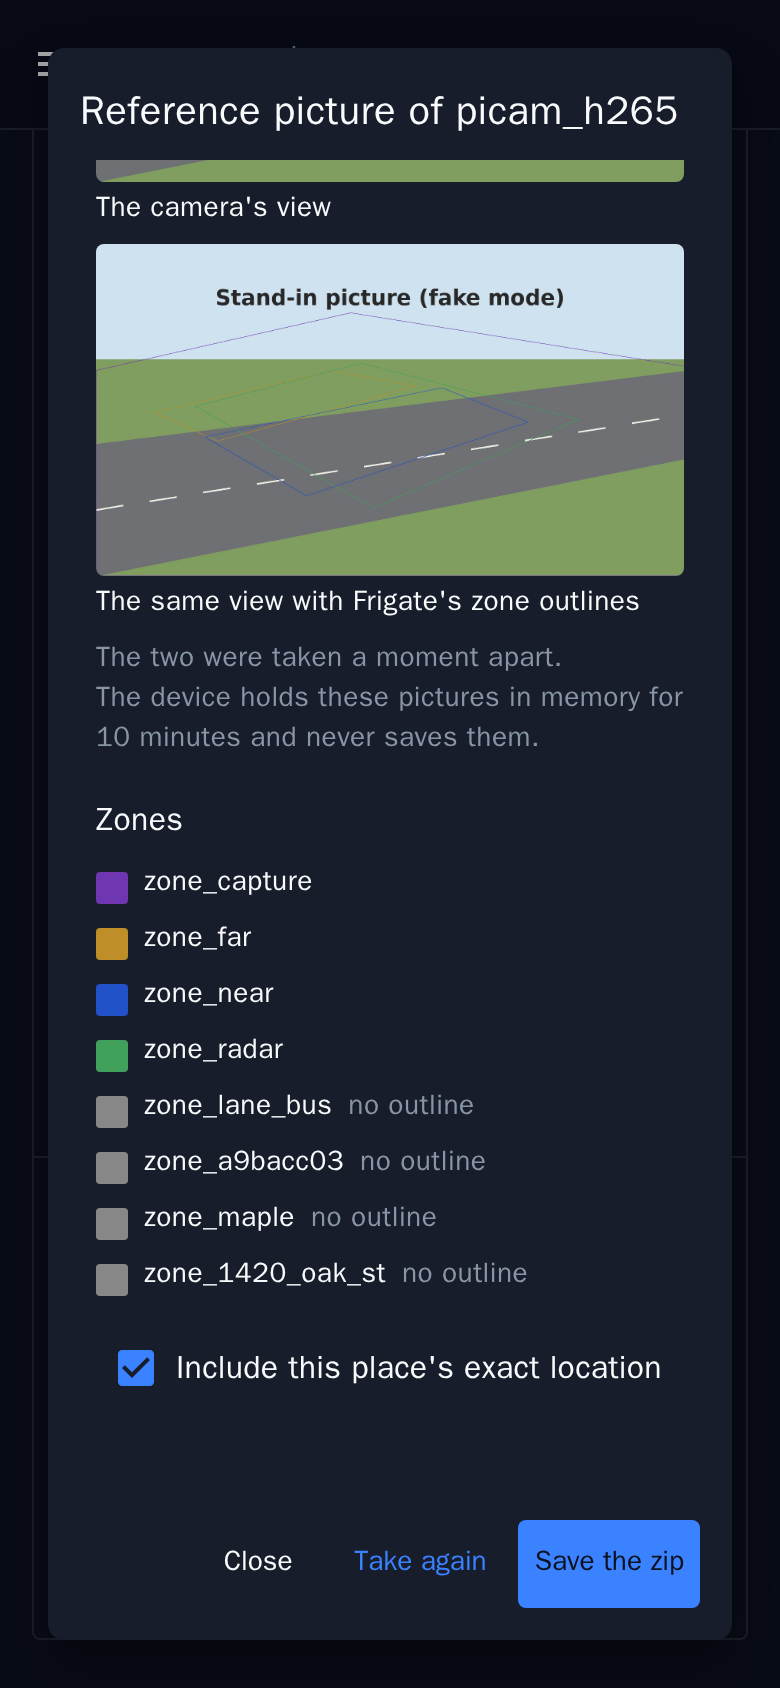
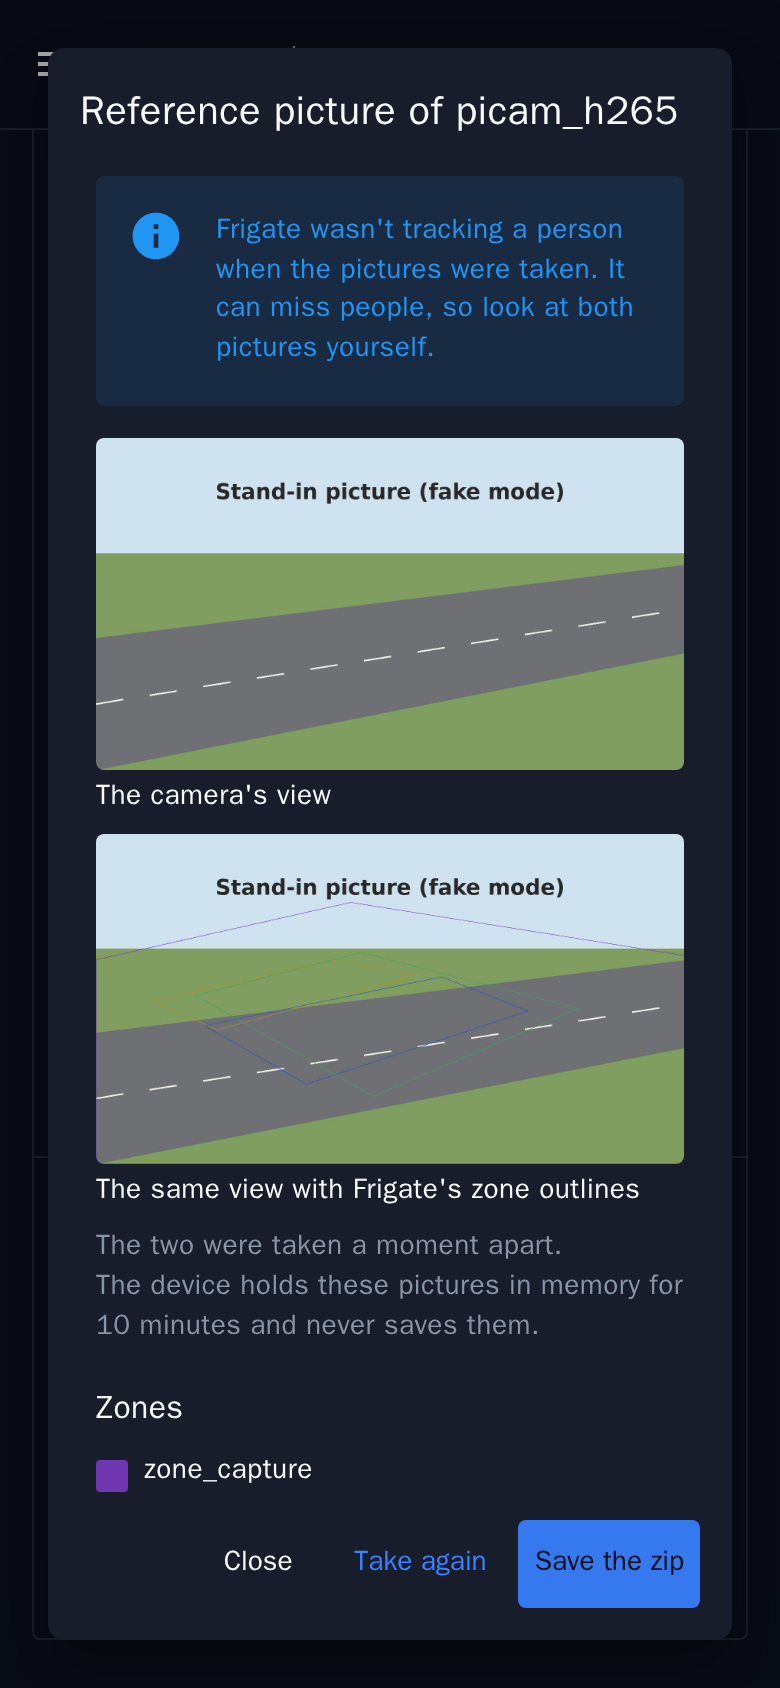
Show in the reference picture dialog whether Frigate was tracking a person
After a take, one line sits between the note and the two pictures: a
warning when Frigate was tracking a person, and plain information when it
wasn't or when the device couldn't check. It follows the newest take and
goes with the pictures. It never disables a button, because the admin
answers for the pictures. The note says what the check can and can't
promise, and the UI README and the docs image follow.

Assisted-by: Claude Code 2.1.332 (CLI)
AI-Model: Claude Sonnet 5.5 (claude-sonnet-5-5)
AI-Effort: high
AI-Role: drafted

diff --git a/tm-control/ui/tests/reference-picture.spec.ts b/tm-control/ui/tests/reference-picture.spec.ts
@@ -14,13 +14,24 @@ const ZIP = new Uint8Array([0x50, 0x4b, 0x03, 0x04, 0, 0, 0, 0])
 const EXPIRED = 'These pictures are no longer held on the device. Take them again.'
 const NOTE =
   'This picture shows your street. Anyone who has it can tell where the unit is, and it shows whoever was in view. ' +
-  "The device doesn't check the pictures for people. You are responsible for making sure nobody is in either " +
-  'picture before you save them: look at both, and if anyone is in them, wait and take them again. Share them only ' +
-  "with people you would give the unit's exact location. The data file also holds that location unless you clear " +
-  'the box below.'
+  'When the pictures are taken, the device asks Frigate whether it is tracking a person on this camera, and says so ' +
+  "above them. That works only while Frigate's detection is on for the camera. Frigate can miss a person who is far " +
+  'away, half hidden, or in poor light, or who walks in between the two pictures. You are still responsible for ' +
+  'making sure nobody is in either picture before you save them: look at both, and if anyone is in them, wait and ' +
+  "take them again. Share them only with people you would give the unit's exact location. The data file also holds " +
+  'that location unless you clear the box below.'
 const INTRO =
   'A still picture of what this camera sees, and the same view with its zones marked, for a tool that places ' +
   'recorded paths on a street. You get one zip with both pictures, a data file with the zones, and a labelled drawing.'
+const SEEN =
+  'Frigate was tracking a person on this camera when the pictures were taken. Wait until nobody is in view, then take ' +
+  'them again.'
+const NONE =
+  "Frigate wasn't tracking a person when the pictures were taken. It can miss people, so look at both pictures " +
+  'yourself.'
+const UNCHECKED =
+  "The device couldn't check for people, because Frigate's detection is off for this camera or Frigate didn't " +
+  'answer. Look at both pictures yourself.'
 const LOCATION = "Include this place's exact location"
 
 function zipAnswer() {
@@ -89,6 +100,7 @@ describe('Reference picture', () => {
     expect(dialogText()).toContain(INTRO)
     expect(dialogText()).toContain(NOTE)
     expect(pictures()).toEqual([])
+    expect(dialog()?.querySelector('[data-people]')).toBeNull()
     expect(buttonsIn(dialog(), 'Take the pictures')).toHaveLength(1)
     expect(api.sent.some((request) => request.method === 'POST')).toBe(false)
   })
@@ -120,8 +132,75 @@ describe('Reference picture', () => {
     expect(dialog()?.querySelectorAll('[data-legend-row]')).toHaveLength(4)
     expect(text).toContain('A–B 12 m, B–C 7.3 m, C–D 12 m, D–A 7.3 m')
     expect(text).toContain('off in Frigate, not drawn')
+  })
+
+  it('warns above the pictures when Frigate was tracking a person', async () => {
+    const { wrapper } = await openPage({ [TAKE]: referenceOut({ people: 'seen' }) })
+    await openDialog(wrapper)
+    await takePictures()
+    const line = dialog()?.querySelector('[data-people]')
+    expect(line?.textContent).toContain(SEEN)
+    expect(line?.className).toContain('v-alert--variant-tonal')
+    expect(line?.className).toContain('text-warning')
+    const first = dialog()?.querySelector('img')
+    expect(line && first && line.compareDocumentPosition(first) & Node.DOCUMENT_POSITION_FOLLOWING).toBeTruthy()
+    const note = dialog()?.querySelector('[data-note]')
+    expect(note && line && note.compareDocumentPosition(line) & Node.DOCUMENT_POSITION_FOLLOWING).toBeTruthy()
+    expect(dialog()?.querySelectorAll('[data-people]')).toHaveLength(1)
+  })
+
+  it("says when Frigate wasn't tracking a person", async () => {
+    const { wrapper } = await openPage({ [TAKE]: referenceOut({ people: 'none' }) })
+    await openDialog(wrapper)
+    await takePictures()
+    const line = dialog()?.querySelector('[data-people]')
+    expect(line?.textContent).toContain(NONE)
+    expect(line?.className).toContain('text-info')
+    expect(line?.className).not.toContain('text-warning')
+    expect(dialogText()).not.toContain(SEEN)
+  })
+
+  it("says when the device couldn't check", async () => {
+    const { wrapper } = await openPage({ [TAKE]: referenceOut({ people: 'unchecked' }) })
+    await openDialog(wrapper)
+    await takePictures()
+    const line = dialog()?.querySelector('[data-people]')
+    expect(line?.textContent).toContain(UNCHECKED)
+    expect(line?.className).toContain('text-info')
+    expect(dialogText()).not.toContain(NONE)
+  })
+
+  it.each(['seen', 'none', 'unchecked'] as const)('keeps Save the zip for every result (%s)', async (people) => {
+    const { wrapper } = await openPage({ [TAKE]: referenceOut({ people }) })
+    await openDialog(wrapper)
+    await takePictures()
+    const save = buttonsIn(dialog(), 'Save the zip')
+    expect(save).toHaveLength(1)
+    expect(save[0].disabled).toBe(false)
+    expect(buttonsIn(dialog(), 'Take again')).toHaveLength(1)
+  })
+
+  it("shows the newest take's result after Take again", async () => {
+    const answers = [referenceOut({ people: 'seen' }), referenceOut({ people: 'none' })]
+    const { wrapper } = await openPage({ [TAKE]: () => json(200, answers.shift()) })
+    await openDialog(wrapper)
+    await takePictures()
+    expect(dialog()?.querySelector('[data-people]')?.textContent).toContain(SEEN)
+    await clickIn(dialog(), 'Take again')
+    expect(dialog()?.querySelectorAll('[data-people]')).toHaveLength(1)
+    expect(dialog()?.querySelector('[data-people]')?.textContent).toContain(NONE)
+    expect(dialogText()).not.toContain(SEEN)
+  })
+
+  it('drops the result line with the pictures', async () => {
+    saveSpies()
+    const { wrapper } = await openPage({ [PACKAGE]: apiError(404, 'reference_expired', EXPIRED) })
+    await openDialog(wrapper)
+    await takePictures()
+    expect(dialog()?.querySelector('[data-people]')).not.toBeNull()
+    await clickIn(dialog(), 'Save the zip')
+    expect(pictures()).toEqual([])
     expect(dialog()?.querySelector('[data-people]')).toBeNull()
-    expect(text).not.toContain('Frigate was tracking')
   })
 
   it('saves the zip with the location while the box is ticked, and without it once cleared', async () => {

diff --git a/tm-control/ui/src/modules/cameras/ReferencePicture.vue b/tm-control/ui/src/modules/cameras/ReferencePicture.vue
@@ -2,8 +2,10 @@
   The reference picture of one camera (its sensors.cameras key, `name`), for a tool that places recorded paths on a
   street. Two steps: first the intro and the note on what the picture gives away, before any picture is taken; then,
   after Take the pictures (POST /cameras/{name}/reference), both pictures as the device holds them, the zones' legend,
-  the location box, and Save the zip. The device doesn't check the pictures for people; the note, shown on both steps,
-  makes that the admin's job.
+  the location box, and Save the zip. The device asks Frigate whether it is tracking a person on the camera, at each of
+  the two pictures, and the take's `people` answer becomes one line above them (warning for a person, information for
+  none or for no check); the note, shown on both steps, says what the line can't promise and leaves the looking to the
+  admin, so the line never disables a button.
   The pictures are plain <img> elements: the session cookie authorizes them, and the page keeps nothing once the
   dialog closes. Closing the dialog, or taking again, drops the pictures the device holds (DELETE, answer ignored),
   and a take that answers after the dialog closed drops its new pictures at once. The dialog starts over each time it
@@ -14,17 +16,19 @@
 import { computed, ref, watch } from 'vue'
 import { ApiError, api, messageOf } from '../../api/client'
 import { saveBlob } from '../../components/download'
-import { legendRows, pictureUrl, type ReferenceOut } from './reference'
+import { legendRows, peopleLine, pictureUrl, type ReferenceOut } from './reference'
 
 const INTRO =
   'A still picture of what this camera sees, and the same view with its zones marked, for a tool that places ' +
   'recorded paths on a street. You get one zip with both pictures, a data file with the zones, and a labelled drawing.'
 const NOTE =
   'This picture shows your street. Anyone who has it can tell where the unit is, and it shows whoever was in view. ' +
-  "The device doesn't check the pictures for people. You are responsible for making sure nobody is in either " +
-  'picture before you save them: look at both, and if anyone is in them, wait and take them again. Share them only ' +
-  "with people you would give the unit's exact location. The data file also holds that location unless you clear " +
-  'the box below.'
+  'When the pictures are taken, the device asks Frigate whether it is tracking a person on this camera, and says so ' +
+  "above them. That works only while Frigate's detection is on for the camera. Frigate can miss a person who is far " +
+  'away, half hidden, or in poor light, or who walks in between the two pictures. You are still responsible for ' +
+  'making sure nobody is in either picture before you save them: look at both, and if anyone is in them, wait and ' +
+  "take them again. Share them only with people you would give the unit's exact location. The data file also holds " +
+  'that location unless you clear the box below.'
 const EXPIRED = 'These pictures are no longer held on the device. Take them again.'
 const CLEAN_ALT = "The camera's view"
 const ZONES_ALT = "The same view with Frigate's zone outlines"
@@ -41,6 +45,7 @@ const expired = ref(false)
 
 const title = computed(() => `Reference picture of ${props.name}`)
 const legend = computed(() => (reference.value ? legendRows(reference.value) : []))
+const people = computed(() => (reference.value ? peopleLine(reference.value.people) : null))
 
 // Counts each opening and closing, so a take that answers after either knows it is stale
 let session = 0
@@ -134,6 +139,9 @@ async function save() {
         <v-alert v-if="error" type="error" class="mb-4">{{ error }}</v-alert>
 
         <template v-if="reference">
+          <v-alert v-if="people" :type="people.type" variant="tonal" class="mb-4 text-body-2" data-people>
+            {{ people.text }}
+          </v-alert>
           <v-row dense>
             <v-col cols="12" md="6">
               <img

diff --git a/tm-control/ui/tests/camera-reference.spec.ts b/tm-control/ui/tests/camera-reference.spec.ts
@@ -1,7 +1,7 @@
 // The reference picture's rules on the Cameras page: which rows offer it, the pictures' addresses, and the legend.
 // Pure functions of the API's answers.
 import { describe, expect, it } from 'vitest'
-import { canTake, legendRows, pictureUrl } from '../src/modules/cameras/reference'
+import { canTake, legendRows, peopleLine, pictureUrl } from '../src/modules/cameras/reference'
 import { cameraRow, newRow, referenceOut, zoneFacts } from './fake-api'
 
 describe('canTake', () => {
@@ -48,5 +48,31 @@ describe('legendRows', () => {
   it('says a zone that is off is off, even with side lengths', () => {
     const off = zoneFacts({ enabled: false, drawn: false })
     expect(legendRows(referenceOut({ zones: [off] }))[0].detail).toBe('off in Frigate, not drawn')
+  })
+})
+
+describe('peopleLine', () => {
+  it('warns when Frigate was tracking a person', () => {
+    expect(peopleLine('seen')).toEqual({
+      type: 'warning',
+      text:
+        'Frigate was tracking a person on this camera when the pictures were taken. Wait until nobody is in view, ' +
+        'then take them again.',
+    })
+  })
+
+  it("informs when Frigate wasn't tracking a person, and when the device couldn't check", () => {
+    expect(peopleLine('none')).toEqual({
+      type: 'info',
+      text:
+        "Frigate wasn't tracking a person when the pictures were taken. It can miss people, so look at both " +
+        'pictures yourself.',
+    })
+    expect(peopleLine('unchecked')).toEqual({
+      type: 'info',
+      text:
+        "The device couldn't check for people, because Frigate's detection is off for this camera or Frigate " +
+        "didn't answer. Look at both pictures yourself.",
+    })
   })
 })

diff --git a/tm-control/ui/src/modules/cameras/reference.ts b/tm-control/ui/src/modules/cameras/reference.ts
@@ -1,4 +1,5 @@
-// The reference picture on the Cameras page: which rows offer one, where the held pictures are, and the legend's rows.
+// The reference picture on the Cameras page: which rows offer one, where the held pictures are, the legend's rows, and
+// the line about people.
 // The rules about the pictures themselves are the backend's.
 import type { components } from '../../api/schema'
 import { rowState, type CameraRow } from './rows'
@@ -29,4 +30,31 @@ export function legendRows(reference: ReferenceOut): { key: string; color: strin
     } else if (!zone.drawn) detail = 'no outline'
     return { key: zone.key, color: zone.color ?? FALLBACK_COLOR, detail }
   })
+}
+
+// The one line above the pictures, from the device's answer to "was Frigate tracking a person" at the two takes. Only
+// `seen` is a warning: neither of the others is a finding, and none of the three stops the admin from saving.
+export function peopleLine(people: ReferenceOut['people']): { type: 'warning' | 'info'; text: string } {
+  if (people === 'seen') {
+    return {
+      type: 'warning',
+      text:
+        'Frigate was tracking a person on this camera when the pictures were taken. Wait until nobody is in view, ' +
+        'then take them again.',
+    }
+  }
+  if (people === 'none') {
+    return {
+      type: 'info',
+      text:
+        "Frigate wasn't tracking a person when the pictures were taken. It can miss people, so look at both pictures " +
+        'yourself.',
+    }
+  }
+  return {
+    type: 'info',
+    text:
+      "The device couldn't check for people, because Frigate's detection is off for this camera or Frigate didn't " +
+      'answer. Look at both pictures yourself.',
+  }
 }

diff --git a/tm-control/ui/README.md b/tm-control/ui/README.md
@@ -129,15 +129,24 @@ from an existing lockfile without trouble, so the image still builds and tests t
   (`canTake` in `reference.ts`, which also holds the pictures' addresses and the legend's rows). It
   opens `ReferencePicture.vue`, one dialog the page keeps, in two steps. The first has the intro and the note on what
   the picture gives away, and only Take the pictures: the note comes before any picture, because what it asks (make
-  sure nobody is in either picture, which the device doesn't check and the admin answers for; share them as you would
-  the exact location) is decided before the take, not after, and it stays above the pictures on the second step. The
-  second shows the two pictures side by side on a desktop and stacked on a phone (`v-col cols="12" md="6"`), the
+  sure nobody is in either picture, which the admin answers for; share them as you would the exact location) is
+  decided before the take, not after, and it stays above the pictures on the second step. The device asks Frigate
+  whether it is tracking a person on the camera when the pictures are taken, so the note says what that check can and
+  can't promise. The second step opens with one line, between the note and the pictures, because it is about these
+  pictures and is read before them (`peopleLine` in `reference.ts`, an alert marked `data-people`): a warning when
+  Frigate was tracking a person, and plain information for the other two, "Frigate wasn't tracking a person" and "the
+  device couldn't check", because neither of them is a finding. The line never disables a button: Save the zip and
+  Take again work the same for all three, because the admin answers for the pictures. It follows the newest take and
+  goes with the pictures when they are dropped. Below it the second step shows the two pictures side by side on a
+  desktop and stacked on a phone (`v-col cols="12" md="6"`), the
   zones' legend with a `v-sheet` swatch in each zone's colour, the location box, and Save the zip, Take again, and
   Close. The pictures are plain `<img>` elements pointing at the device: the session cookie authorizes them, and the
   page keeps no copy of them, so nothing is left once the dialog closes; closing it, or taking again, tells the device
   to drop them. A picture that fails to load, or a 404 from Save, means
   the device no longer holds them, so the dialog goes back to its first step and says so rather than showing a broken
-  picture with a working Save button.
+  picture with a working Save button. In fake mode the three lines are reached without changing code: the line for
+  "wasn't tracking" is the default, `TM_CONTROL_FAKE_PERSON=1` gives the warning, and a camera whose detection switch
+  on the Cameras page is off gives the "couldn't check" line.
 - `src/components/` holds what several pages share: the device card, the confirmation dialog, the list of checks and
   their status marks (`status.ts`), "20 seconds ago" in words (`relative-time.ts`), waiting for a root job
   (`jobs.ts`, used by setup's system password and the entered secrets), one entered secret's form
